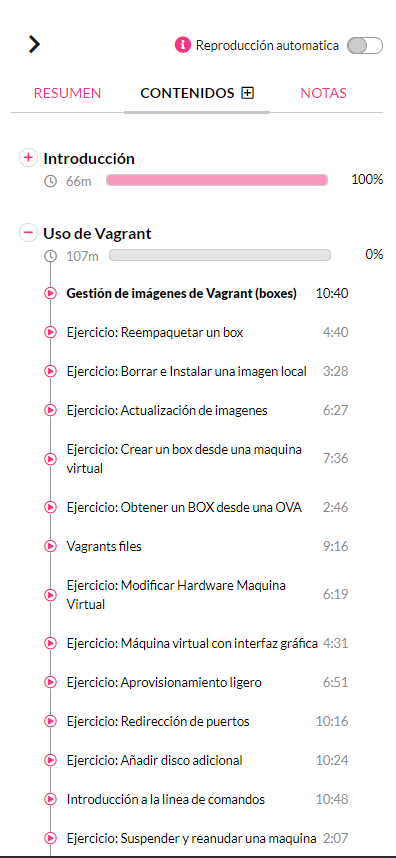
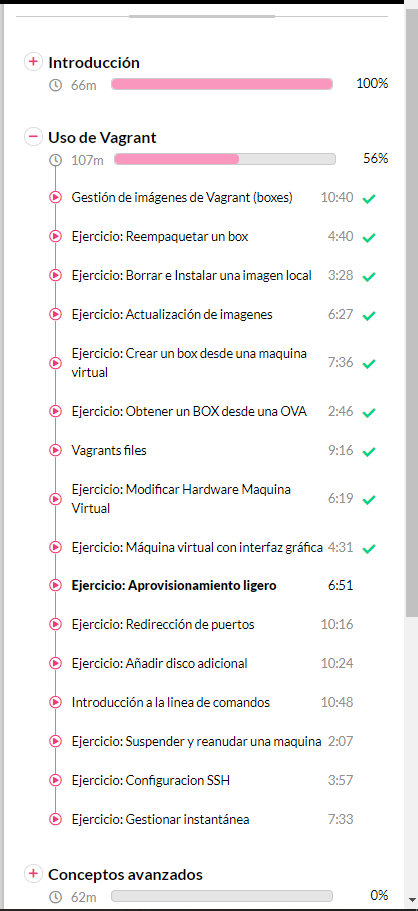
28/04/2020 13:27
12ºDía
Comenzado bloque de "Uso de Vagrant"

diff --git a/README.md b/README.md
@@ -56,3 +56,6 @@
 	25/04/2020
 		-Comenzado curso de "Vagrant"
 		-Completado bloque de introducción
+
+	28/04/2020
+		-Comenzado bloque de "Uso de Vagrant"
